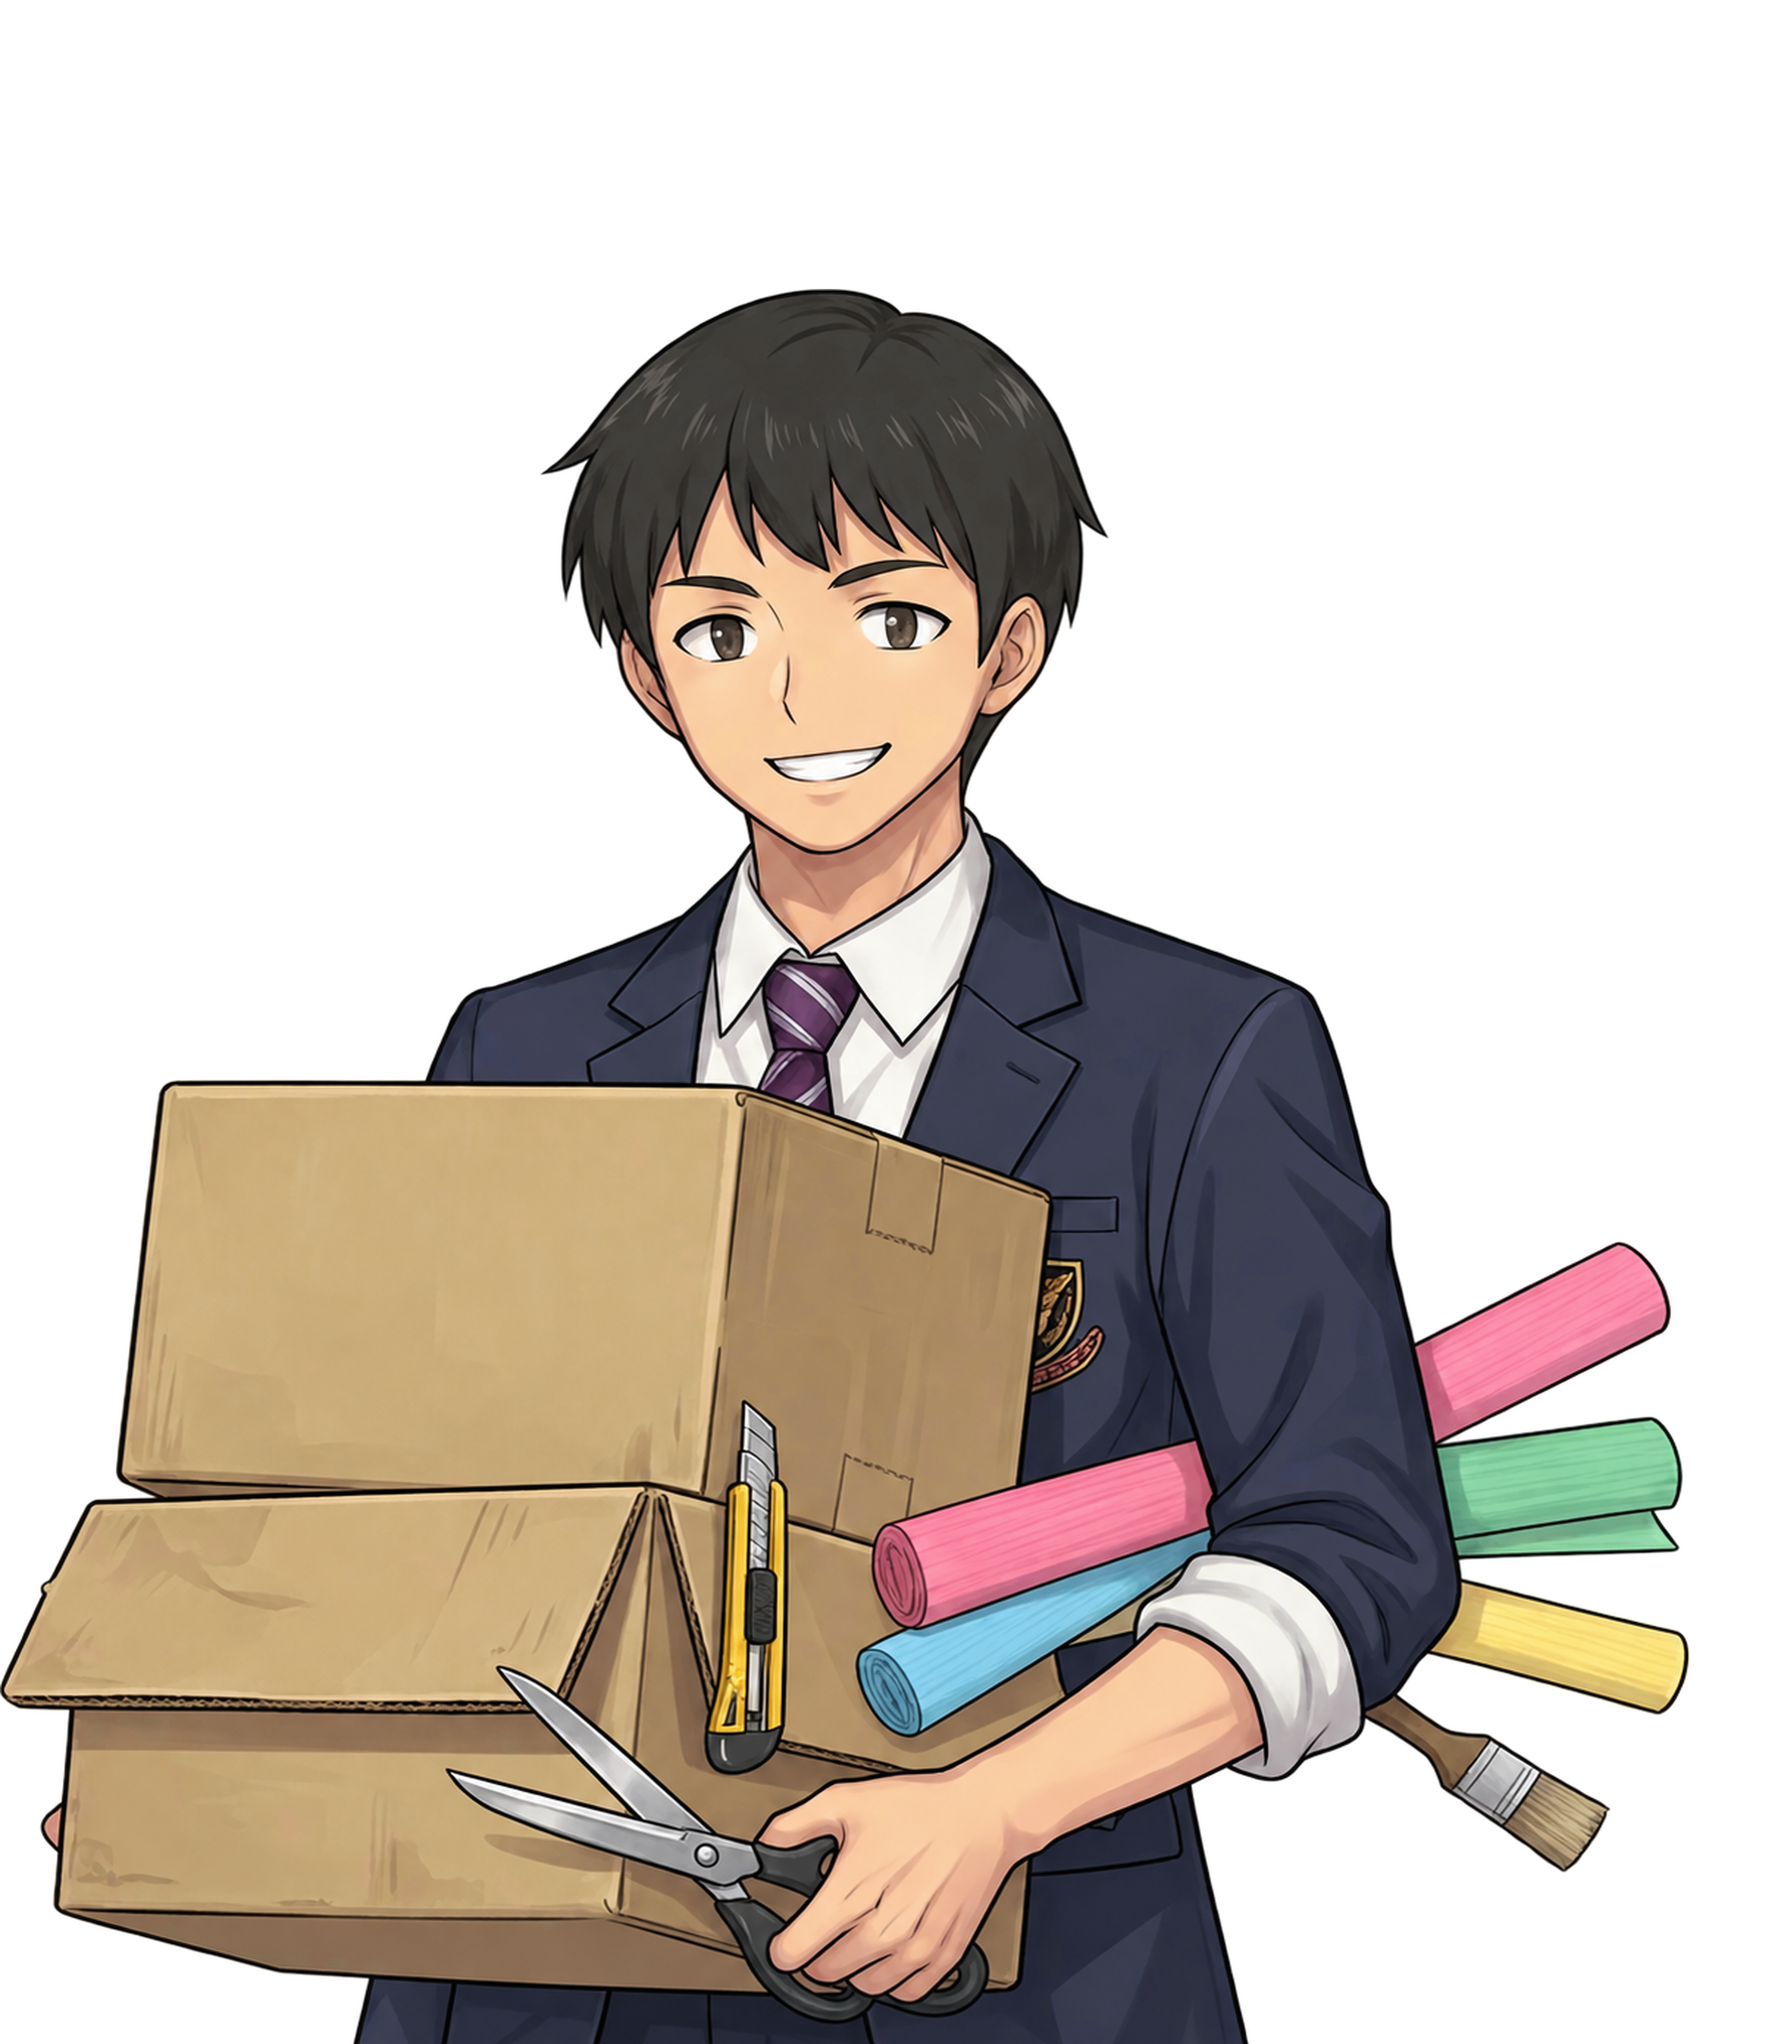
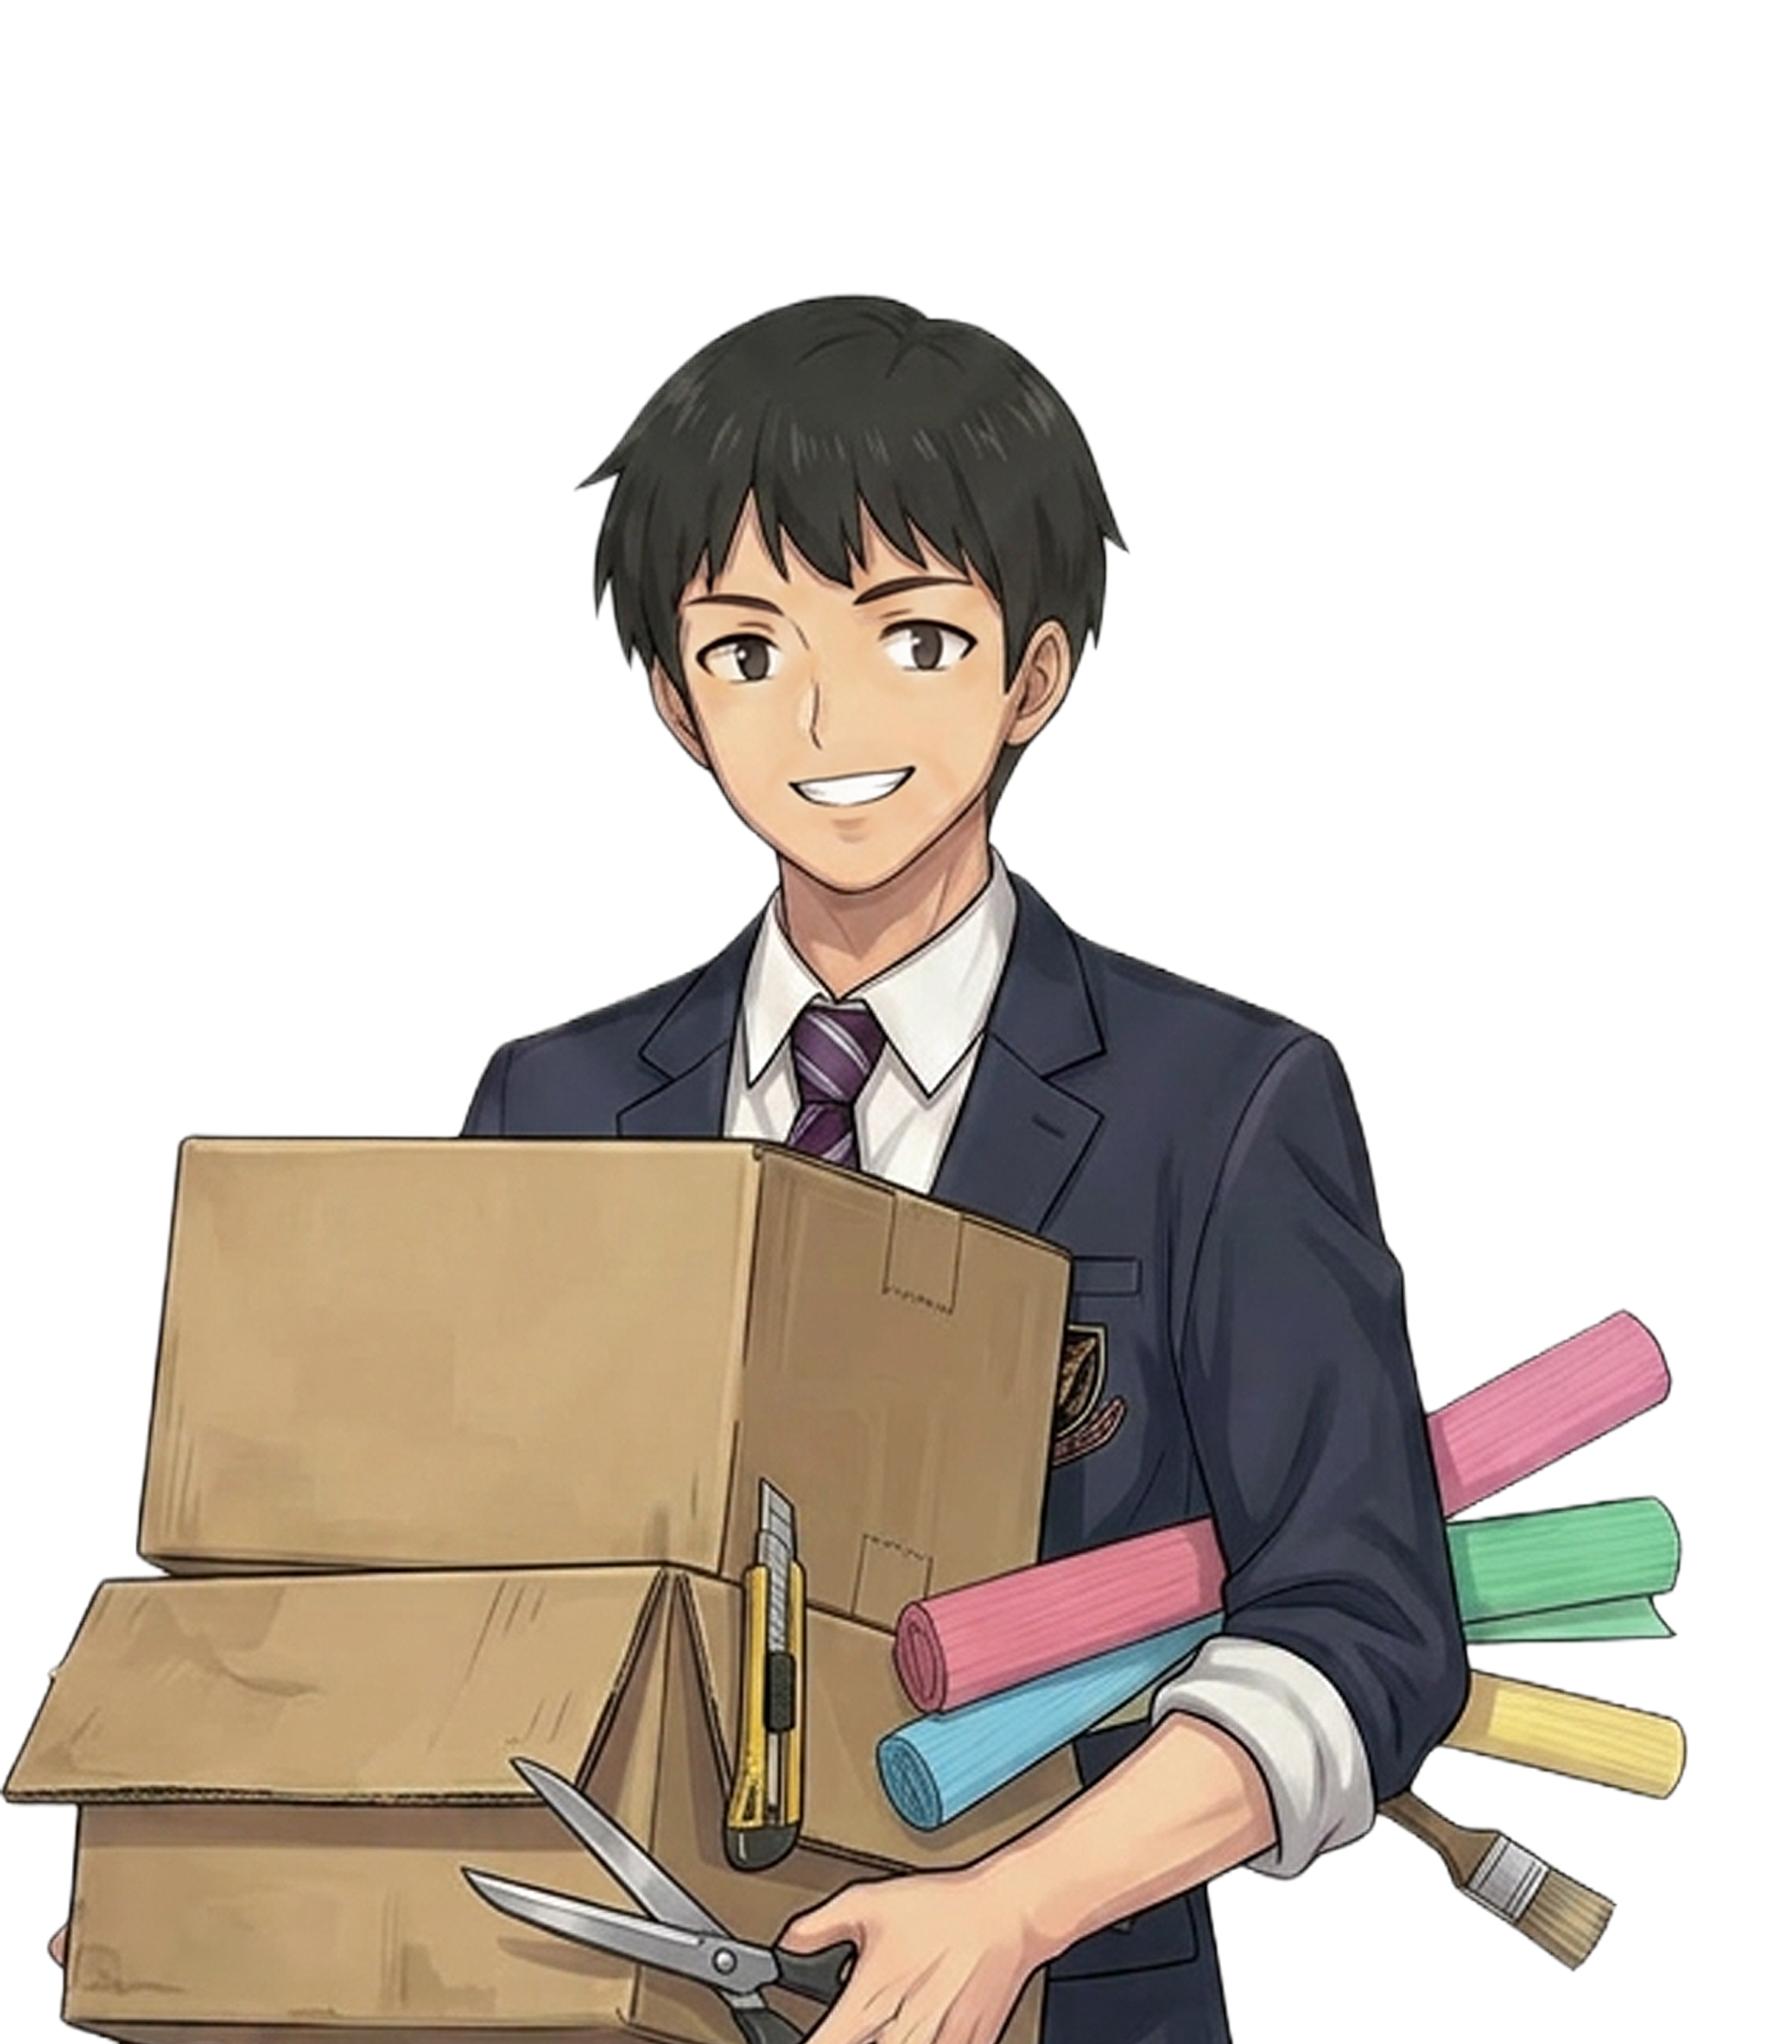
Release 1.3.7: preserve sprite colors and repair no-camera Mahiru

diff --git a/lp/ai/index.html b/lp/ai/index.html
@@ -52,7 +52,7 @@
       </div>
       <figure class="hero-visual">
         <div class="poster-frame"><img src="../assets/images/poster.png" alt="星空の下に集まる、放課後のステラの主人公と三人のヒロイン" data-alt-en="The protagonist and three heroines of After School Stella beneath a starry sky" width="848" height="1264" fetchpriority="high"></div>
-        <figcaption><span class="visual-stamp" data-en="YES, YOU CAN PLAY IT.">この世界、ちゃんと遊べます。</span><span class="visual-version">BROWSER GAME / ver 1.3.6</span></figcaption>
+        <figcaption><span class="visual-stamp" data-en="YES, YOU CAN PLAY IT.">この世界、ちゃんと遊べます。</span><span class="visual-version">BROWSER GAME / ver 1.3.7</span></figcaption>
         <span class="orbit-label" aria-hidden="true">IDEA → DIALOGUE → CREATE → PLAY</span>
       </figure>
     </section>
@@ -97,7 +97,7 @@
       <div class="wrap closing-inner"><p class="eyebrow">MADE IN SPARE MOMENTS. READY FOR YOURS.</p><h2 id="closing-title"><span data-en="Made in one person's spare time.">ひとりのスキマ時間から、</span><br><span data-en="Now, a story for yours.">あなたの放課後へ。</span></h2><p data-en="See what one creator and AI made together. Then stay for the characters, their choices, and their story.">一人とAIで、どこまでつくれたのか。<br>その答えを、物語の中で確かめてみてください。</p><a class="button primary" href="../../index.html" data-cta="footer"><span data-en="Play for free">無料でプレイする</span><span aria-hidden="true">↗</span></a><p class="micro" data-en="Free to the end · For all ages · Sound on · Landscape recommended on phones">最後まで無料・全年齢 ／ 音が流れます ／ スマホは横向き推奨</p></div>
     </section>
   </main>
-  <footer class="footer wrap"><span data-en="After School Stella / ver 1.3.6">放課後のステラ ／ ver 1.3.6</span><a href="../#updates" data-en="Release notes">更新履歴</a><a href="../" data-en="Explore the world">作品紹介ページへ</a><a href="#top" data-en="Back to top ↑">ページ上部へ ↑</a></footer>
+  <footer class="footer wrap"><span data-en="After School Stella / ver 1.3.7">放課後のステラ ／ ver 1.3.7</span><a href="../#updates" data-en="Release notes">更新履歴</a><a href="../" data-en="Explore the world">作品紹介ページへ</a><a href="#top" data-en="Back to top ↑">ページ上部へ ↑</a></footer>
   <script src="../voice-preview.js"></script>
   <script src="script.js"></script>
   <script src="../experiment.js"></script>

diff --git a/lp/script.js b/lp/script.js
@@ -93,6 +93,9 @@ const translations = {
       ".final-inner .button-primary": "ゲーム本体へ",
       '.site-nav a[href="#updates"]': "更新履歴",
       "#updates-title": "更新履歴",
+      "#update-1-3-7 .update-version": "ver 1.3.7",
+      "#update-1-3-7 .update-points li:nth-child(1)": "まひる・男子クラスメイトの立ち絵を、元の色合いを保った修正版へ更新。",
+      "#update-1-3-7 .update-points li:nth-child(2)": "まひるのカメラなし制服の驚き表情を修正。",
       "#update-1-3-6 .update-version": "ver 1.3.6",
       "#update-1-3-6 .update-points li:nth-child(1)": "男子クラスメイトの3表情と、まひるの驚き表情の立ち絵ノイズを修正。",
       "#update-1-3-5 .update-version": "ver 1.3.5",
@@ -222,6 +225,9 @@ const translations = {
       ".final-inner .button-primary": "Open the Game",
       '.site-nav a[href="#updates"]': "Updates",
       "#updates-title": "Update History",
+      "#update-1-3-7 .update-version": "ver 1.3.7",
+      "#update-1-3-7 .update-points li:nth-child(1)": "Updated Mahiru and male-classmate sprites while preserving their original colors.",
+      "#update-1-3-7 .update-points li:nth-child(2)": "Fixed Mahiru's surprised expression in her uniform without a camera.",
       "#update-1-3-6 .update-version": "ver 1.3.6",
       "#update-1-3-6 .update-points li:nth-child(1)": "Cleaned noise in three male-classmate sprites and Mahiru's surprised sprite.",
       "#update-1-3-5 .update-version": "ver 1.3.5",

diff --git a/lp/index.html b/lp/index.html
@@ -387,6 +387,10 @@
           <h2 id="updates-title">更新履歴</h2>
         </div>
         <ol class="updates-list">
+          <li class="update-entry" id="update-1-3-7">
+            <div class="update-meta"><span class="update-version">ver 1.3.7</span><span class="update-date">2026.10.21</span></div>
+            <ul class="update-points"><li>まひる・男子クラスメイトの立ち絵を、元の色合いを保った修正版へ更新。</li><li>まひるのカメラなし制服の驚き表情を修正。</li></ul>
+          </li>
           <li class="update-entry" id="update-1-3-6">
             <div class="update-meta"><span class="update-version">ver 1.3.6</span><span class="update-date">2026.10.21</span></div>
             <ul class="update-points"><li>男子クラスメイトの3表情と、まひるの驚き表情の立ち絵ノイズを修正。</li></ul>
@@ -497,7 +501,7 @@
 
   <footer class="site-footer">
     <p>放課後のステラ 嘘と願いのバウンドリー</p>
-    <p class="footer-version">ver 1.3.6</p>
+    <p class="footer-version">ver 1.3.7</p>
     <a href="#top">ページ上部へ</a>
   </footer>
 

diff --git a/config.js b/config.js
@@ -4,7 +4,7 @@
  */
 const VN_CONFIG = {
 
-  version: '1.3.6',
+  version: '1.3.7',
   endingCoda: {
   "kotoha_good_end": [
     "$route_kotoha.kotoha_ch12_good_end.coda001",
@@ -23,6 +23,9 @@ const VN_CONFIG = {
   ]
 },
   releaseNotes: [
+    { version: '1.3.7', date: '2026-10-21',
+      ja: ["まひる・男子クラスメイトの立ち絵を、元の色合いを保った修正版へ更新。", "まひるのカメラなし制服の驚き表情を修正。"],
+      en: ["Updated Mahiru and male-classmate sprites while preserving their original colors.", "Fixed Mahiru's surprised expression in her uniform without a camera."] },
     { version: '1.3.6', date: '2026-10-21',
       ja: ["男子クラスメイトの3表情と、まひるの驚き表情の立ち絵ノイズを修正。"],
       en: ["Cleaned noise in three male-classmate sprites and Mahiru's surprised sprite."] },

diff --git a/tools/check_lp_variants.py b/tools/check_lp_variants.py
@@ -55,9 +55,9 @@ def main():
             samples=c.evaluate("""(async()=>{const context=new OfflineAudioContext(1,44100,44100),out=[];for(const lang of ['ja','en']){const manifest=await fetch('/assets/voice/'+lang+'/manifest.json').then(r=>r.json());for(const button of document.querySelectorAll('.voice-play')){const source=button.dataset[lang+'Src'],id=source.split('/').pop().split('.').slice(0,3).join('.'),clip=manifest.clips[id];if(new URL(source,location.href).pathname!=='/'+clip.src||Number(button.dataset[lang+'Gain'])!==clip.gainDb)throw new Error('Stale voice sample '+id);const response=await fetch(source);if(!response.ok)throw new Error(source);const buffer=await context.decodeAudioData(await response.arrayBuffer());out.push({language:lang,id,duration:buffer.duration})}}return out})()""")
             assert len(samples)==6 and all(s['duration']>.1 for s in samples)
             if variant=='story':
-                assert c.evaluate("document.querySelector('.footer-version').textContent==='ver 1.3.6'&&document.querySelector('#update-1-3-6 .update-points').children.length===1&&document.querySelector('#update-1-3-6 .update-date').textContent==='2026.10.21'")
+                assert c.evaluate("document.querySelector('.footer-version').textContent==='ver 1.3.7'&&document.querySelector('#update-1-3-7 .update-points').children.length===2&&document.querySelector('#update-1-3-7 .update-date').textContent==='2026.10.21'")
             else:
-                assert c.evaluate("document.querySelector('.visual-version').textContent.includes('1.3.6')&&document.querySelector('.footer').textContent.includes('1.3.6')")
+                assert c.evaluate("document.querySelector('.visual-version').textContent.includes('1.3.7')&&document.querySelector('.footer').textContent.includes('1.3.7')")
             c.click('[data-voice-character][data-role="kotoha"] .voice-play')
             c.wait("document.querySelector('[data-voice-character][data-role=\"kotoha\"] .voice-play').dataset.state==='playing'")
             assert c.evaluate("performance.getEntriesByType('resource').some(r=>r.name.includes('kotoha-leira-v1.mp3')) && document.querySelectorAll('.voice-play[aria-pressed=\"true\"]').length===1")
@@ -77,7 +77,7 @@ def main():
             c.click('.language' if variant=='ai_solo' else '.language-toggle')
             assert c.evaluate("document.documentElement.lang==='en'")
             if variant=='story':
-                assert c.evaluate("document.querySelector('#update-1-3-6 .update-points').textContent.includes('male-classmate sprites')&&[...document.querySelectorAll('.update-points')].every(el=>el.children.length>=1&&el.children.length<=3)")
+                assert c.evaluate("document.querySelector('#update-1-3-7 .update-points').textContent.includes('male-classmate sprites')&&[...document.querySelectorAll('.update-points')].every(el=>el.children.length>=1&&el.children.length<=3)")
             if variant=='ai_solo':assert c.evaluate("document.querySelector('h1').innerText.includes('One creator.')")
             assert c.evaluate("document.querySelector('.voice-play-label').innerText==='Listen'")
             c.evaluate("document.querySelector('[data-voice-samples]').scrollIntoView({behavior:'instant'})")

diff --git a/CHANGELOG.md b/CHANGELOG.md
@@ -1,5 +1,11 @@
 # 更新履歴
 
+## 1.3.7 — 2026-10-21
+
+- 承認済みの顔パーツ合成版を採用。男子クラスメイト3表情と、まひるのカメラ付き制服surprisedを更新し、元絵の色合いを維持。
+- カメラなし制服surprisedもnormalを土台に、目・眉・口のみを合成。髪・制服・小物・透過を維持し、顔編集マスク外の変更ピクセル0を確認。
+- normalの寸法を維持するため、まひるsurprisedは843×1264、カメラなしsurprisedは479×720。表示設定やシナリオは変更せず、編集資料と生成指示を素材リポジトリに保存。
+
 ## 1.3.6 — 2026-10-21
 
 - 男子クラスメイトのnormal・laugh・workと、まひるのカメラ付き制服surprisedを元デザインから再描画し、周囲の線状ノイズ・粒状ノイズを除去。透過の縁を整え、元のPNGサイズ・表示範囲へ書き出し。

diff --git a/README.md b/README.md
@@ -1,6 +1,6 @@
 # 放課後のステラ　嘘と願いのバウンドリー
 
-現行版：**ver 1.3.6（2026-10-21）**。変更点は [更新履歴](CHANGELOG.md) を参照。
+現行版：**ver 1.3.7（2026-10-21）**。変更点は [更新履歴](CHANGELOG.md) を参照。
 
 恋愛アドベンチャーゲーム（ブラウザ動作・バニラJS）
 
